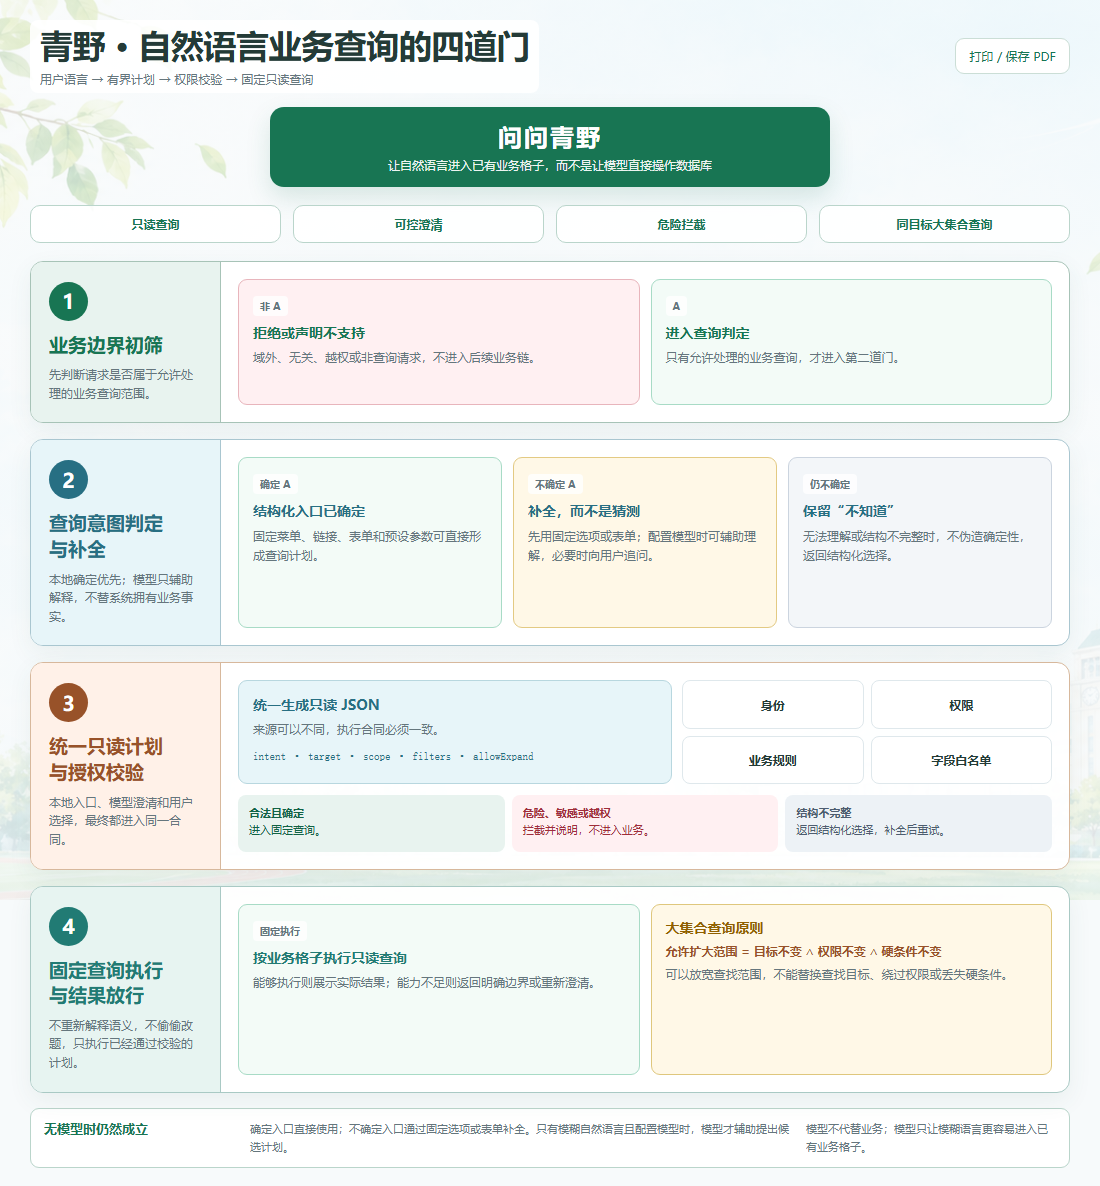
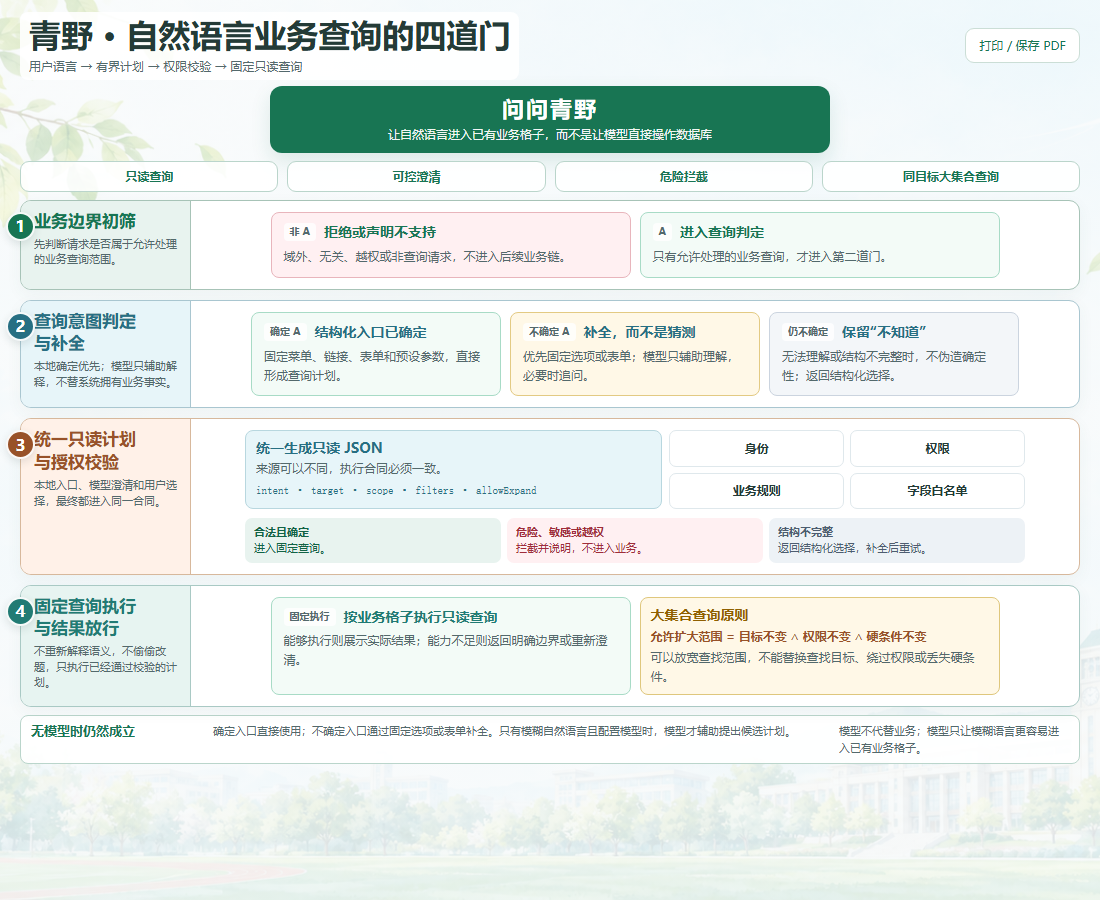
docs: fit the four-gate diagram to one screen

diff --git a/docs/助手四道门.html b/docs/助手四道门.html
@@ -20,7 +20,7 @@
       --amber: #906000;
       --amber-soft: #fff8e7;
       --ink: #243b37;
-      --muted: #65767d;
+      --muted: #53696c;
       --paper: #f7fafb;
       --line: #dfe8ec;
       --wire: #759f90;
@@ -39,70 +39,74 @@
       background-position: center;
       background-attachment: fixed;
       color: var(--ink);
-      font-family: -apple-system, BlinkMacSystemFont, "PingFang SC", "Microsoft YaHei", sans-serif;
+      font-family: "Microsoft YaHei UI", "Microsoft YaHei", "PingFang SC", -apple-system, BlinkMacSystemFont, sans-serif;
+      font-weight: 400;
+      text-rendering: optimizeLegibility;
+      -webkit-font-smoothing: antialiased;
     }
 
-    main { width: min(1040px, calc(100% - 40px)); margin: auto; padding: 20px 0 18px; }
+    main { width: min(1100px, calc(100% - 40px)); margin: auto; padding: 12px 0 10px; }
 
-    .page-head { display: flex; justify-content: space-between; align-items: center; gap: 16px; margin-bottom: 14px; }
-    .page-title { padding: 6px 10px; border-radius: 8px; background: rgba(255,255,255,.88); }
-    h1 { margin: 0; font-size: clamp(22px, 3vw, 34px); line-height: 1.2; letter-spacing: -.4px; }
-    .page-head p { margin: 5px 0 0; color: var(--muted); font-size: 12px; }
+    .page-head { display: flex; justify-content: space-between; align-items: center; gap: 16px; margin-bottom: 6px; }
+    .page-title { padding: 4px 9px; border-radius: 8px; background: rgba(255,255,255,.88); }
+    h1 { margin: 0; font-size: clamp(22px, 3vw, 32px); line-height: 1.2; font-weight: 700; letter-spacing: 0; }
+    .page-head p { margin: 4px 0 0; color: var(--muted); font-size: 12px; line-height: 1.45; }
     button { border: 1px solid #cbded6; border-radius: 9px; padding: 9px 13px; background: white; color: var(--green); font: inherit; font-size: 12px; cursor: pointer; }
     button:hover { background: var(--green-soft); }
     button:focus-visible { outline: 3px solid var(--blue); outline-offset: 3px; }
 
-    .entry { width: min(560px, 84%); margin: 0 auto; padding: 14px 22px; border-radius: 14px; background: var(--green); color: white; text-align: center; box-shadow: 0 10px 24px rgba(24,117,83,.15); }
-    .entry strong { display: block; font-size: 24px; letter-spacing: 2px; }
-    .entry span { display: block; margin-top: 5px; font-size: 12px; opacity: .92; }
+    .entry { width: min(560px, 84%); margin: 0 auto; padding: 9px 20px; border-radius: 12px; background: var(--green); color: white; text-align: center; box-shadow: 0 8px 20px rgba(24,117,83,.13); }
+    .entry strong { display: block; font-size: 22px; line-height: 1.35; letter-spacing: 2px; }
+    .entry span { display: block; margin-top: 2px; font-size: 12px; line-height: 1.45; opacity: .94; }
 
-    .principles { display: grid; grid-template-columns: repeat(4, minmax(0, 1fr)); gap: 12px; margin: 18px 0; }
-    .principle { padding: 10px 14px; border: 1px solid #bad5cb; border-radius: 10px; background: rgba(255,255,255,.88); color: var(--green); font-size: 12px; font-weight: 700; text-align: center; }
+    .principles { display: grid; grid-template-columns: repeat(4, minmax(0, 1fr)); gap: 9px; margin: 8px 0; }
+    .principle { padding: 7px 12px; border: 1px solid #bad5cb; border-radius: 9px; background: rgba(255,255,255,.88); color: var(--green); font-size: 12px; font-weight: 700; text-align: center; }
 
-    .flow { display: grid; gap: 16px; }
-    .gate { --accent: var(--green); --tint: var(--green-soft); --branch: #a7c3b7; display: grid; grid-template-columns: 190px 1fr; position: relative; overflow: visible; border: 1px solid var(--branch); border-radius: 13px; background: rgba(255,255,255,.94); box-shadow: 0 8px 24px rgba(54,95,82,.07); }
+    .flow { display: grid; gap: 10px; }
+    .gate { --accent: var(--green); --tint: var(--green-soft); --branch: #a7c3b7; position: relative; display: grid; grid-template-columns: 170px minmax(0, 1fr); min-width: 0; overflow: visible; border: 1px solid var(--branch); border-radius: 11px; background: rgba(255,255,255,.94); box-shadow: 0 5px 16px rgba(54,95,82,.05); }
     .gate:nth-child(2) { --accent: var(--blue); --tint: var(--blue-soft); --branch: #a9c6d0; }
     .gate:nth-child(3) { --accent: var(--orange); --tint: var(--orange-soft); --branch: #d7b89c; }
     .gate:nth-child(4) { --accent: var(--teal); --tint: var(--teal-soft); --branch: #a9c9c4; }
-    .gate-label { padding: 20px 18px; border-radius: 12px 0 0 12px; border-right: 1px solid var(--branch); background: var(--tint); }
-    .gate-number { display: inline-grid; place-items: center; width: 39px; height: 39px; margin-bottom: 11px; border-radius: 50%; background: var(--accent); color: white; font-size: 20px; font-weight: 800; }
-    .gate-label h2 { margin: 0; color: var(--accent); font-size: 19px; line-height: 1.35; }
+    .gate-label { padding: 9px 13px; border-radius: 10px 0 0 10px; border-right: 1px solid var(--branch); background: var(--tint); }
+    .gate-heading { display: block; }
+    .gate-number { position: absolute; z-index: 2; top: 11px; left: -15px; display: grid; place-items: center; width: 29px; height: 29px; border: 2px solid rgba(255,255,255,.96); border-radius: 50%; background: var(--accent); box-shadow: 0 3px 9px rgba(36,59,55,.12); color: white; font-size: 16px; line-height: 1; font-weight: 800; }
+    .gate-label h2 { margin: 0; color: var(--accent); font-size: 17px; line-height: 1.34; font-weight: 700; }
     .gate-label h2 span { display: block; }
-    .gate-label p { margin: 8px 0 0; color: var(--muted); font-size: 12px; line-height: 1.55; }
-    .gate-body { display: grid; gap: 11px; padding: 17px; }
-    .split-2 { grid-template-columns: repeat(2, minmax(0, 1fr)); }
-    .split-3 { grid-template-columns: repeat(3, minmax(0, 1fr)); }
+    .gate-label p { margin: 4px 0 0; color: var(--muted); font-size: 11px; line-height: 1.42; }
+    .gate-body { display: grid; grid-template-columns: minmax(0, 780px); align-content: center; justify-content: center; gap: 9px; padding: 11px 13px; }
+    .gate-body.split-2 { grid-template-columns: repeat(2, minmax(0, 360px)); }
+    .gate-body.split-3 { grid-template-columns: repeat(3, minmax(0, 250px)); }
 
-    .card { min-width: 0; padding: 13px 14px; border: 1px solid var(--line); border-radius: 9px; background: white; }
-    .card h3 { margin: 0 0 6px; color: var(--accent); font-size: 14px; line-height: 1.4; }
-    .card p { margin: 0; color: var(--muted); font-size: 12px; line-height: 1.62; }
+    .card { min-width: 0; padding: 10px 12px; border: 1px solid var(--line); border-radius: 8px; background: white; }
+    .card h3 { margin: 0 0 5px; color: var(--accent); font-size: 14px; line-height: 1.42; font-weight: 700; }
+    .card p { clear: both; margin: 0; color: var(--muted); font-size: 12px; line-height: 1.58; }
     .card.good { border-color: #a8dbc6; background: #f3fbf7; }
     .card.warn { border-color: #e3ca83; background: var(--amber-soft); }
     .card.stop { border-color: #e8b5bc; background: var(--red-soft); }
     .card.unknown { border-color: #cbd4df; background: #f3f6f9; }
-    .status { display: inline-block; margin-bottom: 7px; padding: 3px 7px; border-radius: 4px; background: rgba(255,255,255,.78); color: var(--muted); font-size: 10px; font-weight: 750; }
+    .status { float: left; margin: 0 8px 3px 0; padding: 2px 6px; border-radius: 4px; background: rgba(255,255,255,.78); color: var(--muted); font-size: 10px; line-height: 1.42; font-weight: 700; }
 
-    .contract { display: grid; grid-template-columns: 1.08fr .92fr; gap: 10px; }
-    .json { padding: 14px; border: 1px solid #b8d7df; border-radius: 9px; background: var(--blue-soft); }
+    .contract { display: grid; grid-template-columns: 1.08fr .92fr; gap: 7px; }
+    .json { padding: 8px 10px; border: 1px solid #b8d7df; border-radius: 8px; background: var(--blue-soft); }
     .json strong { display: block; color: var(--blue); font-size: 14px; }
-    .json p { margin: 6px 0 0; color: var(--muted); font-size: 12px; line-height: 1.6; }
+    .json p { margin: 3px 0 0; color: var(--muted); font-size: 12px; line-height: 1.5; }
     .json code { color: var(--blue); font-size: 11px; }
-    .checks { display: grid; grid-template-columns: repeat(2, minmax(0, 1fr)); gap: 7px; }
-    .check { display: grid; place-items: center; padding: 9px; border: 1px solid var(--line); border-radius: 8px; background: white; color: var(--ink); font-size: 12px; font-weight: 700; }
-    .results { display: grid; grid-template-columns: repeat(3, minmax(0, 1fr)); gap: 7px; }
-    .result { padding: 9px 11px; border-radius: 8px; font-size: 11px; line-height: 1.55; }
+    .checks { display: grid; grid-template-columns: repeat(2, minmax(0, 1fr)); gap: 6px; }
+    .check { display: grid; place-items: center; padding: 7px; border: 1px solid var(--line); border-radius: 7px; background: white; color: var(--ink); font-size: 12px; font-weight: 700; }
+    .results { display: grid; grid-template-columns: repeat(3, minmax(0, 1fr)); gap: 6px; }
+    .result { padding: 6px 9px; border-radius: 7px; font-size: 11px; line-height: 1.48; }
     .result.good { background: var(--green-soft); color: #126345; }
     .result.stop { background: var(--red-soft); color: #9f2d3a; }
     .result.unknown { background: #edf2f6; color: #4d5d70; }
 
-    .large-set { padding: 13px 14px; border: 1px solid #dfc77d; border-radius: 9px; background: var(--amber-soft); }
+    .large-set { padding: 8px 10px; border: 1px solid #dfc77d; border-radius: 8px; background: var(--amber-soft); }
     .large-set strong { display: block; color: var(--amber); font-size: 14px; }
-    .formula { margin: 6px 0; color: var(--orange); font-size: 12px; font-weight: 750; }
-    .large-set p { margin: 0; color: var(--muted); font-size: 12px; line-height: 1.6; }
+    .formula { margin: 4px 0; color: var(--orange); font-size: 12px; line-height: 1.48; font-weight: 700; }
+    .large-set p { margin: 0; color: var(--muted); font-size: 12px; line-height: 1.55; }
 
-    .foot { display: grid; grid-template-columns: 190px 1fr 250px; gap: 16px; margin-top: 15px; padding: 11px 13px; border: 1px solid #bad5cb; border-radius: 9px; background: rgba(255,255,255,.92); }
+    .foot { display: grid; grid-template-columns: 170px 1fr 230px; gap: 12px; margin-top: 8px; padding: 7px 10px; border: 1px solid #bad5cb; border-radius: 8px; background: rgba(255,255,255,.92); }
     .foot strong { color: var(--green); font-size: 13px; }
-    .foot p { margin: 0; color: var(--muted); font-size: 11px; line-height: 1.65; }
+    .foot p { margin: 0; color: var(--muted); font-size: 11px; line-height: 1.5; }
 
     @media (max-width: 760px) {
       body { background-attachment: scroll; }
@@ -113,12 +117,14 @@
       .entry { width: 100%; }
       .principles { grid-template-columns: repeat(2, minmax(0, 1fr)); }
       .gate { grid-template-columns: 1fr; }
-      .gate-label { border-right: 0; border-bottom: 1px solid var(--branch); border-radius: 12px 12px 0 0; }
+      .gate { margin-left: 7px; }
+      .gate-number { left: -12px; }
+      .gate-label { border-right: 0; border-bottom: 1px solid var(--branch); border-radius: 10px 10px 0 0; }
       .gate-label h2 span { display: inline; }
-      .split-2, .split-3, .contract, .results, .foot { grid-template-columns: 1fr; }
+      .gate-body.split-2, .gate-body.split-3, .contract, .results, .foot { grid-template-columns: 1fr; }
     }
 
-    @page { size: A4 portrait; margin: 8mm; }
+    @page { size: A4 landscape; margin: 8mm; }
     @media print {
       body { background-attachment: scroll; -webkit-print-color-adjust: exact; print-color-adjust: exact; }
       main { width: 100%; padding: 0; }
@@ -128,9 +134,9 @@
       .entry strong { font-size: 20px; }
       .principles { margin: 8px 0; }
       .flow { gap: 7px; }
-      .gate { grid-template-columns: 170px 1fr; break-inside: avoid; box-shadow: none; }
+      .gate { grid-template-columns: 160px 1fr; break-inside: avoid; box-shadow: none; }
       .gate-label, .gate-body { padding: 10px 12px; }
-      .gate-number { width: 28px; height: 28px; margin-bottom: 5px; font-size: 15px; }
+      .gate-number { width: 27px; height: 27px; font-size: 15px; }
       .gate-label h2 { font-size: 15px; }
       .gate-label p, .card p, .json p, .large-set p { font-size: 10px; }
       .card, .json, .large-set { padding: 8px 10px; }
@@ -163,7 +169,7 @@
 
       <section class="flow" aria-label="四道门">
         <article class="gate">
-          <header class="gate-label"><span class="gate-number">1</span><h2>业务边界初筛</h2><p>先判断请求是否属于允许处理的业务查询范围。</p></header>
+          <header class="gate-label"><div class="gate-heading"><span class="gate-number">1</span><h2>业务边界初筛</h2></div><p>先判断请求是否属于允许处理的业务查询范围。</p></header>
           <div class="gate-body split-2">
             <section class="card stop"><span class="status">非 A</span><h3>拒绝或声明不支持</h3><p>域外、无关、越权或非查询请求，不进入后续业务链。</p></section>
             <section class="card good"><span class="status">A</span><h3>进入查询判定</h3><p>只有允许处理的业务查询，才进入第二道门。</p></section>
@@ -171,16 +177,16 @@
         </article>
 
         <article class="gate">
-          <header class="gate-label"><span class="gate-number">2</span><h2><span>查询意图判定</span><span>与补全</span></h2><p>本地确定优先；模型只辅助解释，不替系统拥有业务事实。</p></header>
+          <header class="gate-label"><div class="gate-heading"><span class="gate-number">2</span><h2><span>查询意图判定</span><span>与补全</span></h2></div><p>本地确定优先；模型只辅助解释，不替系统拥有业务事实。</p></header>
           <div class="gate-body split-3">
-            <section class="card good"><span class="status">确定 A</span><h3>结构化入口已确定</h3><p>固定菜单、链接、表单和预设参数可直接形成查询计划。</p></section>
-            <section class="card warn"><span class="status">不确定 A</span><h3>补全，而不是猜测</h3><p>先用固定选项或表单；配置模型时可辅助理解，必要时向用户追问。</p></section>
-            <section class="card unknown"><span class="status">仍不确定</span><h3>保留“不知道”</h3><p>无法理解或结构不完整时，不伪造确定性，返回结构化选择。</p></section>
+            <section class="card good"><span class="status">确定 A</span><h3>结构化入口已确定</h3><p>固定菜单、链接、表单和预设参数，直接形成查询计划。</p></section>
+            <section class="card warn"><span class="status">不确定 A</span><h3>补全，而不是猜测</h3><p>优先固定选项或表单；模型只辅助理解，必要时追问。</p></section>
+            <section class="card unknown"><span class="status">仍不确定</span><h3>保留“不知道”</h3><p>无法理解或结构不完整时，不伪造确定性；返回结构化选择。</p></section>
           </div>
         </article>
 
         <article class="gate">
-          <header class="gate-label"><span class="gate-number">3</span><h2><span>统一只读计划</span><span>与授权校验</span></h2><p>本地入口、模型澄清和用户选择，最终都进入同一合同。</p></header>
+          <header class="gate-label"><div class="gate-heading"><span class="gate-number">3</span><h2><span>统一只读计划</span><span>与授权校验</span></h2></div><p>本地入口、模型澄清和用户选择，最终都进入同一合同。</p></header>
           <div class="gate-body">
             <div class="contract">
               <section class="json"><strong>统一生成只读 JSON</strong><p>来源可以不同，执行合同必须一致。</p><p><code>intent · target · scope · filters · allowExpand</code></p></section>
@@ -195,7 +201,7 @@
         </article>
 
         <article class="gate">
-          <header class="gate-label"><span class="gate-number">4</span><h2><span>固定查询执行</span><span>与结果放行</span></h2><p>不重新解释语义，不偷偷改题，只执行已经通过校验的计划。</p></header>
+          <header class="gate-label"><div class="gate-heading"><span class="gate-number">4</span><h2><span>固定查询执行</span><span>与结果放行</span></h2></div><p>不重新解释语义，不偷偷改题，只执行已经通过校验的计划。</p></header>
           <div class="gate-body split-2">
             <section class="card good"><span class="status">固定执行</span><h3>按业务格子执行只读查询</h3><p>能够执行则展示实际结果；能力不足则返回明确边界或重新澄清。</p></section>
             <section class="large-set"><strong>大集合查询原则</strong><div class="formula">允许扩大范围 = 目标不变 ∧ 权限不变 ∧ 硬条件不变</div><p>可以放宽查找范围，不能替换查找目标、绕过权限或丢失硬条件。</p></section>
